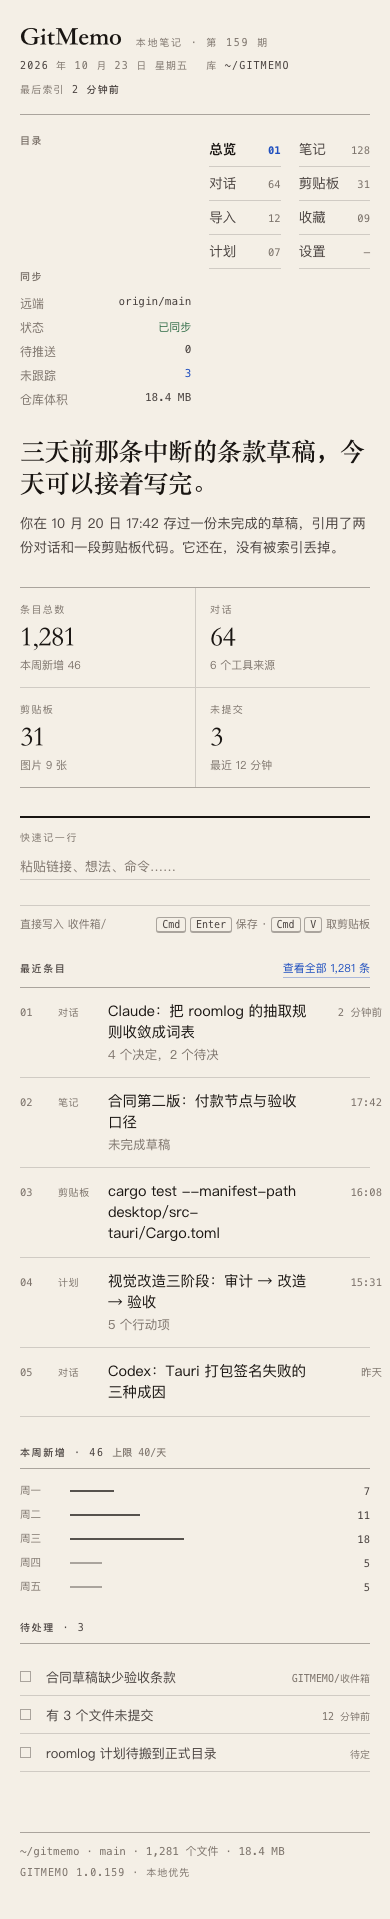
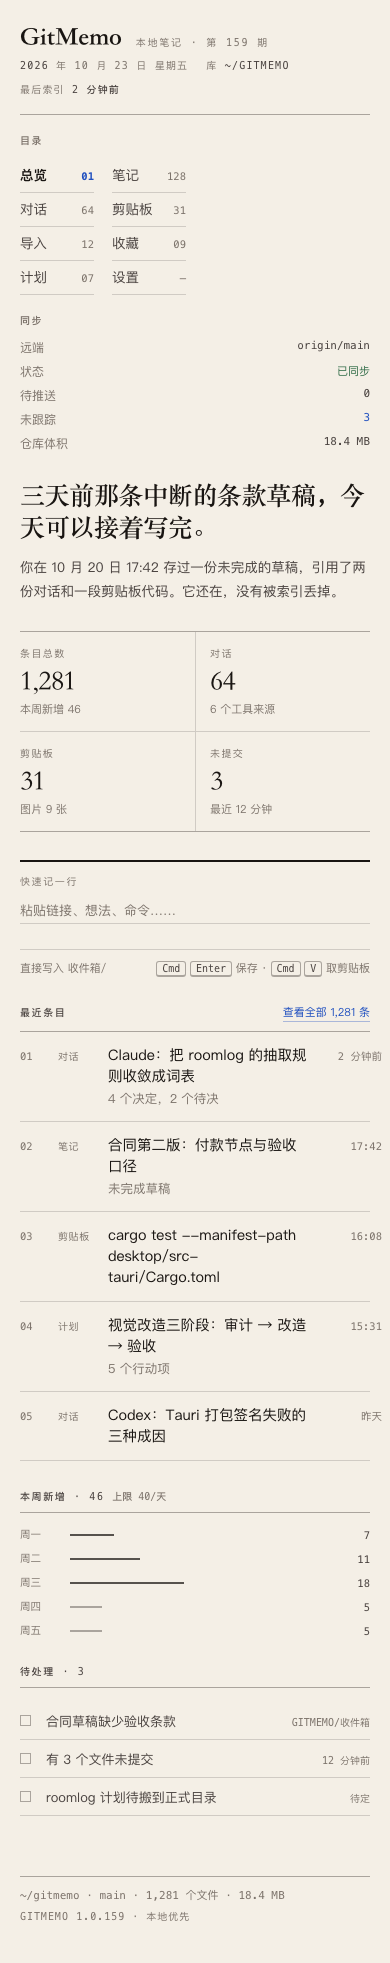
docs(design): fix paper mock mobile nav order and empty lower band

diff --git a/desktop/design-proposals/C-paper.html b/desktop/design-proposals/C-paper.html
@@ -131,9 +131,10 @@
     .brand h1{font-size:26px}
     .dateline{flex-wrap:wrap;gap:10px 18px;font-size:10px;width:100%}
     .sheet{grid-template-columns:1fr;gap:26px;padding-top:18px}
-    .rail{order:0;display:grid;grid-template-columns:auto auto;gap:0 18px;align-items:start}
-    .rail .state{margin-top:0}
+    .rail{display:grid;grid-template-columns:1fr 1fr;gap:0 18px;align-items:start}
+    .rail h2{grid-column:1 / -1}
     .nav{display:grid;grid-template-columns:1fr;column-gap:0}
+    .rail .state{grid-column:1 / -1;margin-top:18px}
     .nav{display:grid;grid-template-columns:1fr 1fr;column-gap:18px}
     .state{margin-top:22px}
     .body{order:1;gap:28px}
